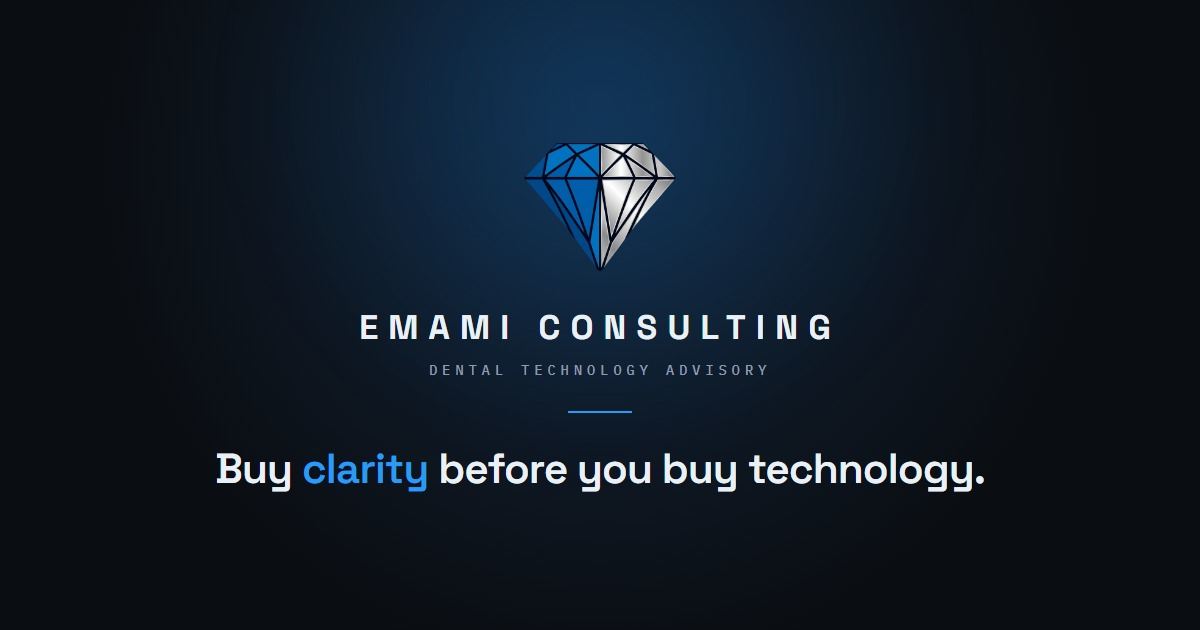
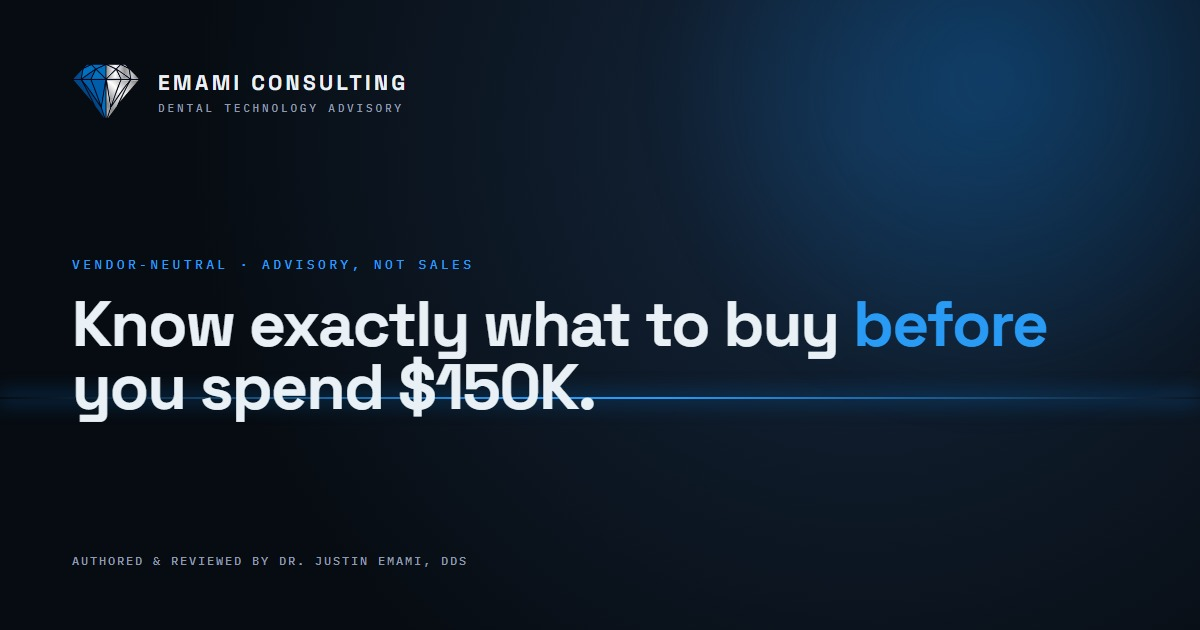
feat(emami): redesign OG cards to match each page's style (cinematic/airy/editorial) + cache-bust v2

diff --git a/public/concepts/clinic.html b/public/concepts/clinic.html
@@ -405,8 +405,8 @@
   <meta property="og:title" content="Emami Consulting — Buy clarity before you buy technology" />
   <meta property="og:description" content="Vendor-neutral dental technology advisory. Know exactly what to buy, in what order, and why, before you spend $10K to $150K+ on scanners, CBCT, milling and full-arch systems." />
   <meta property="og:url" content="https://emami-consulting.vercel.app/concepts/clinic.html" />
-  <meta property="og:image" content="https://emami-consulting.vercel.app/og/clinic.jpg" />
-  <meta property="og:image:secure_url" content="https://emami-consulting.vercel.app/og/clinic.jpg" />
+  <meta property="og:image" content="https://emami-consulting.vercel.app/og/clinic.jpg?v=2" />
+  <meta property="og:image:secure_url" content="https://emami-consulting.vercel.app/og/clinic.jpg?v=2" />
   <meta property="og:image:type" content="image/jpeg" />
   <meta property="og:image:width" content="1200" />
   <meta property="og:image:height" content="630" />
@@ -414,7 +414,7 @@
   <meta name="twitter:card" content="summary_large_image" />
   <meta name="twitter:title" content="Emami Consulting — Buy clarity before you buy technology" />
   <meta name="twitter:description" content="Vendor-neutral dental technology advisory. Know exactly what to buy, in what order, and why, before you spend $10K to $150K+ on scanners, CBCT, milling and full-arch systems." />
-  <meta name="twitter:image" content="https://emami-consulting.vercel.app/og/clinic.jpg" />
+  <meta name="twitter:image" content="https://emami-consulting.vercel.app/og/clinic.jpg?v=2" />
   <!-- OG:END -->
 </head>
 <body>

diff --git a/public/concepts/onyx.html b/public/concepts/onyx.html
@@ -418,8 +418,8 @@
   <meta property="og:title" content="Emami Consulting — Buy clarity before you buy technology" />
   <meta property="og:description" content="Vendor-neutral dental technology advisory. Know exactly what to buy, in what order, and why, before you spend $10K to $150K+ on scanners, CBCT, milling and full-arch systems." />
   <meta property="og:url" content="https://emami-consulting.vercel.app/concepts/onyx.html" />
-  <meta property="og:image" content="https://emami-consulting.vercel.app/og/onyx.jpg" />
-  <meta property="og:image:secure_url" content="https://emami-consulting.vercel.app/og/onyx.jpg" />
+  <meta property="og:image" content="https://emami-consulting.vercel.app/og/onyx.jpg?v=2" />
+  <meta property="og:image:secure_url" content="https://emami-consulting.vercel.app/og/onyx.jpg?v=2" />
   <meta property="og:image:type" content="image/jpeg" />
   <meta property="og:image:width" content="1200" />
   <meta property="og:image:height" content="630" />
@@ -427,7 +427,7 @@
   <meta name="twitter:card" content="summary_large_image" />
   <meta name="twitter:title" content="Emami Consulting — Buy clarity before you buy technology" />
   <meta name="twitter:description" content="Vendor-neutral dental technology advisory. Know exactly what to buy, in what order, and why, before you spend $10K to $150K+ on scanners, CBCT, milling and full-arch systems." />
-  <meta name="twitter:image" content="https://emami-consulting.vercel.app/og/onyx.jpg" />
+  <meta name="twitter:image" content="https://emami-consulting.vercel.app/og/onyx.jpg?v=2" />
   <!-- OG:END -->
 </head>
 <body>

diff --git a/public/concepts/precision.html b/public/concepts/precision.html
@@ -390,8 +390,8 @@
   <meta property="og:title" content="Emami Consulting — Buy clarity before you buy technology" />
   <meta property="og:description" content="Vendor-neutral dental technology advisory. Know exactly what to buy, in what order, and why, before you spend $10K to $150K+ on scanners, CBCT, milling and full-arch systems." />
   <meta property="og:url" content="https://emami-consulting.vercel.app/concepts/precision.html" />
-  <meta property="og:image" content="https://emami-consulting.vercel.app/og/precision.jpg" />
-  <meta property="og:image:secure_url" content="https://emami-consulting.vercel.app/og/precision.jpg" />
+  <meta property="og:image" content="https://emami-consulting.vercel.app/og/precision.jpg?v=2" />
+  <meta property="og:image:secure_url" content="https://emami-consulting.vercel.app/og/precision.jpg?v=2" />
   <meta property="og:image:type" content="image/jpeg" />
   <meta property="og:image:width" content="1200" />
   <meta property="og:image:height" content="630" />
@@ -399,7 +399,7 @@
   <meta name="twitter:card" content="summary_large_image" />
   <meta name="twitter:title" content="Emami Consulting — Buy clarity before you buy technology" />
   <meta name="twitter:description" content="Vendor-neutral dental technology advisory. Know exactly what to buy, in what order, and why, before you spend $10K to $150K+ on scanners, CBCT, milling and full-arch systems." />
-  <meta name="twitter:image" content="https://emami-consulting.vercel.app/og/precision.jpg" />
+  <meta name="twitter:image" content="https://emami-consulting.vercel.app/og/precision.jpg?v=2" />
   <!-- OG:END -->
 </head>
 <body>